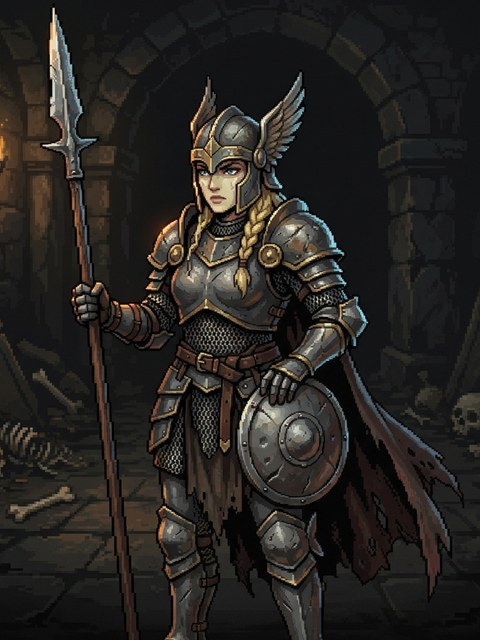
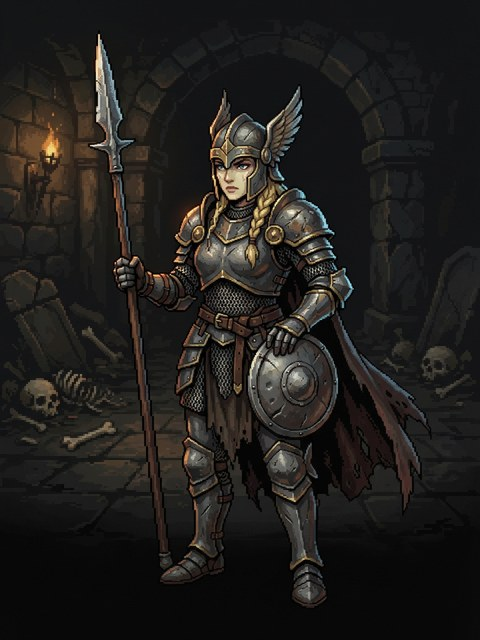
Ilustraciones de personaje enteras, sin recorte
Claude-Session: https://claude.ai/code/session_01VzQRCNSB2MqaNUrSxeGu6C

diff --git a/client.js b/client.js
@@ -1,10 +1,10 @@
 import {distance,setCustomMaps,testCustomMap,labCombat,cooldownLeft,critChance,classes,create,join,act,tick,paths,targetable,hasRange,inRange,castableCell,spellArea,slots,equipSlots,slotKind,polishable,statNames,onBoard,
   BASE_AP,BASE_MP,heroStats,gems,gemQualities,areaFalloff,shopRerollCost,glyphInfo,glyphText,forgeModes,forgeCost,forgeBlock,runesOf,socketsOf,monsterSkills,monsterExtraSkills,monsterVariants,skillFor,damagePreview,trainingChoices,trainingOffer,modifiableRange,reachBonus,elements,skillElement,skillSchool,damageBonus,damagePercent,castsLeft,scaledDamage,flatDamage,percentStats,skillOptions,maxBonusText,nodeKinds,modText,trapInfo,
-  lineOfSight,armorPoints,armorReduction,RESIST_CAP,playerColors,bosses,actNames,ACTS,TOTAL_FLOORS,runPoints,actOf,monsterTraits,cards,passiveCards,defaultLoadout,ACTIVE_SLOTS,MAX_ACTIVE_SLOTS,EXTRA_SLOT_PRICE,PASSIVE_SLOTS,MAX_PASSIVE_SLOTS,PASSIVE_SLOT_PRICE,passiveEffects} from './engine.js?v=178';
-import {portrait,spellIcon,equipmentIcon} from './art.js?v=178';
-import {setupSfx} from './music.js?v=178';
-import {icon} from './icons.js?v=178';
-import {openMapEditor} from './mapeditor.js?v=178';
+  lineOfSight,armorPoints,armorReduction,RESIST_CAP,playerColors,bosses,actNames,ACTS,TOTAL_FLOORS,runPoints,actOf,monsterTraits,cards,passiveCards,defaultLoadout,ACTIVE_SLOTS,MAX_ACTIVE_SLOTS,EXTRA_SLOT_PRICE,PASSIVE_SLOTS,MAX_PASSIVE_SLOTS,PASSIVE_SLOT_PRICE,passiveEffects} from './engine.js?v=179';
+import {portrait,spellIcon,equipmentIcon} from './art.js?v=179';
+import {setupSfx} from './music.js?v=179';
+import {icon} from './icons.js?v=179';
+import {openMapEditor} from './mapeditor.js?v=179';
 
 const el=id=>document.getElementById(id);
 const tintOf=u=>u&&!u.enemy?playerColors.find(c=>c.id===u.color)||null:null;
@@ -146,7 +146,7 @@ worldMount.addEventListener('graphicslost',()=>{
   iso=null;
   syncViewport();
 });
-import('./isometric.js?v=178').then(({createIso})=>{
+import('./isometric.js?v=179').then(({createIso})=>{
   iso=createIso(worldMount,(event,pos)=>{
     const cell=el('board').children[pos];
     if(event==='click')cell?.click();
@@ -637,7 +637,7 @@ function classPreview(){
   }),...(loadout.passives||[]).map(id=>h('li','passive-line',h('span','passive-art',icon('crown')),h('span',null,cards[id].name),h('small','stat-pa','Pasiva'))));
   const deck=btn('',()=>openDeck(kind));deck.className='ghost small-button deck-open';deck.append(icon('level'),'Preparar cartas');
   // Ilustración grande del personaje elegido a la izquierda; nombre, estadísticas y mazo a la derecha.
-  const big=Object.assign(document.createElement('img'),{src:'tiles/card_'+kind+'.jpg?v=178',alt:cls.name});
+  const big=Object.assign(document.createElement('img'),{src:'tiles/card_'+kind+'.jpg?v=179',alt:cls.name});
   big.onerror=()=>big.parentNode?.remove();
   el('class-preview').replaceChildren(
     h('div','preview-art',big),
@@ -650,7 +650,7 @@ function classPreview(){
 el('class').onchange=classPreview;
 el('class-cards').replaceChildren(...Object.entries(classes).map(([kind,cls])=>{
   // Tarjeta vertical con la ilustración del personaje (tiles/card_<clase>.jpg); si no carga, el retrato pequeño.
-  const art=Object.assign(document.createElement('img'),{src:'tiles/card_'+kind+'.jpg?v=178',alt:'',loading:'eager',decoding:'async'});
+  const art=Object.assign(document.createElement('img'),{src:'tiles/card_'+kind+'.jpg?v=179',alt:'',loading:'eager',decoding:'async'});
   art.onerror=()=>art.replaceWith(portrait(kind));
   const card=h('button','class-card',h('span','class-art',art),h('span','class-name',cls.name),h('small',null,roles[kind]));
   card.type='button';

diff --git a/mapeditor.js b/mapeditor.js
@@ -1,6 +1,6 @@
 // Editor de mapas (solo administradores): estilo «modo construcción», con catálogo de casillas abajo.
 // Crea, edita, prueba y guarda mapas; cada mapa pertenece a una zona (acto + tipo de sala) y tiene una frecuencia.
-import {cleanMap,mapWarnings,MAP_LIMITS,ROOM_KINDS,obstacleNames,actNames,actBiomes,ACTS,setCustomMaps,adjacent,classes,passiveCards,labEnemyOptions} from './engine.js?v=178';
+import {cleanMap,mapWarnings,MAP_LIMITS,ROOM_KINDS,obstacleNames,actNames,actBiomes,ACTS,setCustomMaps,adjacent,classes,passiveCards,labEnemyOptions} from './engine.js?v=179';
 
 const liquidNames={crypt:'Agua',jungle:'Ciénaga',hell:'Lava'};
 const floorColors={crypt:['#2f3446','#383c50'],jungle:['#2c4322','#344d27'],hell:['#2a2624','#322c29']};

diff --git a/index.html b/index.html
@@ -8,7 +8,7 @@
 <link rel="icon" type="image/svg+xml" href="favicon.svg?v=1">
   <link rel="preconnect" href="https://fonts.googleapis.com">
   <link rel="preconnect" href="https://fonts.gstatic.com" crossorigin>
-  <link rel="stylesheet" href="./style.css?v=178">
+  <link rel="stylesheet" href="./style.css?v=179">
 </head>
 <body><main>
   <header class="brand">
@@ -103,5 +103,5 @@
   <p id="gameover-points" class="gameover-points" hidden></p>
   <button id="gameover-home" class="primary big">Volver al inicio</button>
 </dialog>
-<script type="module" src="./client.js?v=178"></script></body>
+<script type="module" src="./client.js?v=179"></script></body>
 </html>

diff --git a/isometric.js b/isometric.js
@@ -1,6 +1,6 @@
 import * as T from './three.module.js';
-import {miniature,ps1Obstacle,piece,solid,useObstacleTexture} from './models3d.js?v=178';
-import {playerColors} from './engine.js?v=178';
+import {miniature,ps1Obstacle,piece,solid,useObstacleTexture} from './models3d.js?v=179';
+import {playerColors} from './engine.js?v=179';
 
 const clamp=T.MathUtils.clamp;
 const ease=t=>t*t*(3-2*t);

diff --git a/music.js b/music.js
@@ -1,5 +1,5 @@
 // Sonido del juego: efectos, ambiente por acto y música de fondo.
-import {icon} from './icons.js?v=178';
+import {icon} from './icons.js?v=179';
 export function setupSfx(button){
   let context,master;
   let muted=false;

diff --git a/CLAUDE.md b/CLAUDE.md
@@ -56,7 +56,7 @@ capturas y espera su visto bueno.
 | `server.js` / `accounts.js` / `store.js` | Servidor HTTP/salas, cuentas y cartas, guardado en Upstash. |
 | `game.test.js` | Tests (`node:test`). Helpers: `battle(classId)`, `timeout(s)` para avanzar turnos de la IA. |
 | `tiles/*.png` | Tileset por bioma y `props.png` (ver §6). |
-| `tiles/card_<clase>.jpg` | Ilustraciones de la selección de personaje (las hace el usuario con IA; 3:4, recortadas a 480×640). |
+| `tiles/card_<clase>.jpg` | Ilustraciones de la selección de personaje (las hace el usuario con IA; 3:4, enteras, escaladas a 480×640: no recortar, se cortan pies y armas). |
 | `docs/skills-<clase>.md` | Hoja de habilidades de cada clase con **todas** las decisiones tomadas. Léela antes de tocar esa clase. |
 
 ### Habilidades
